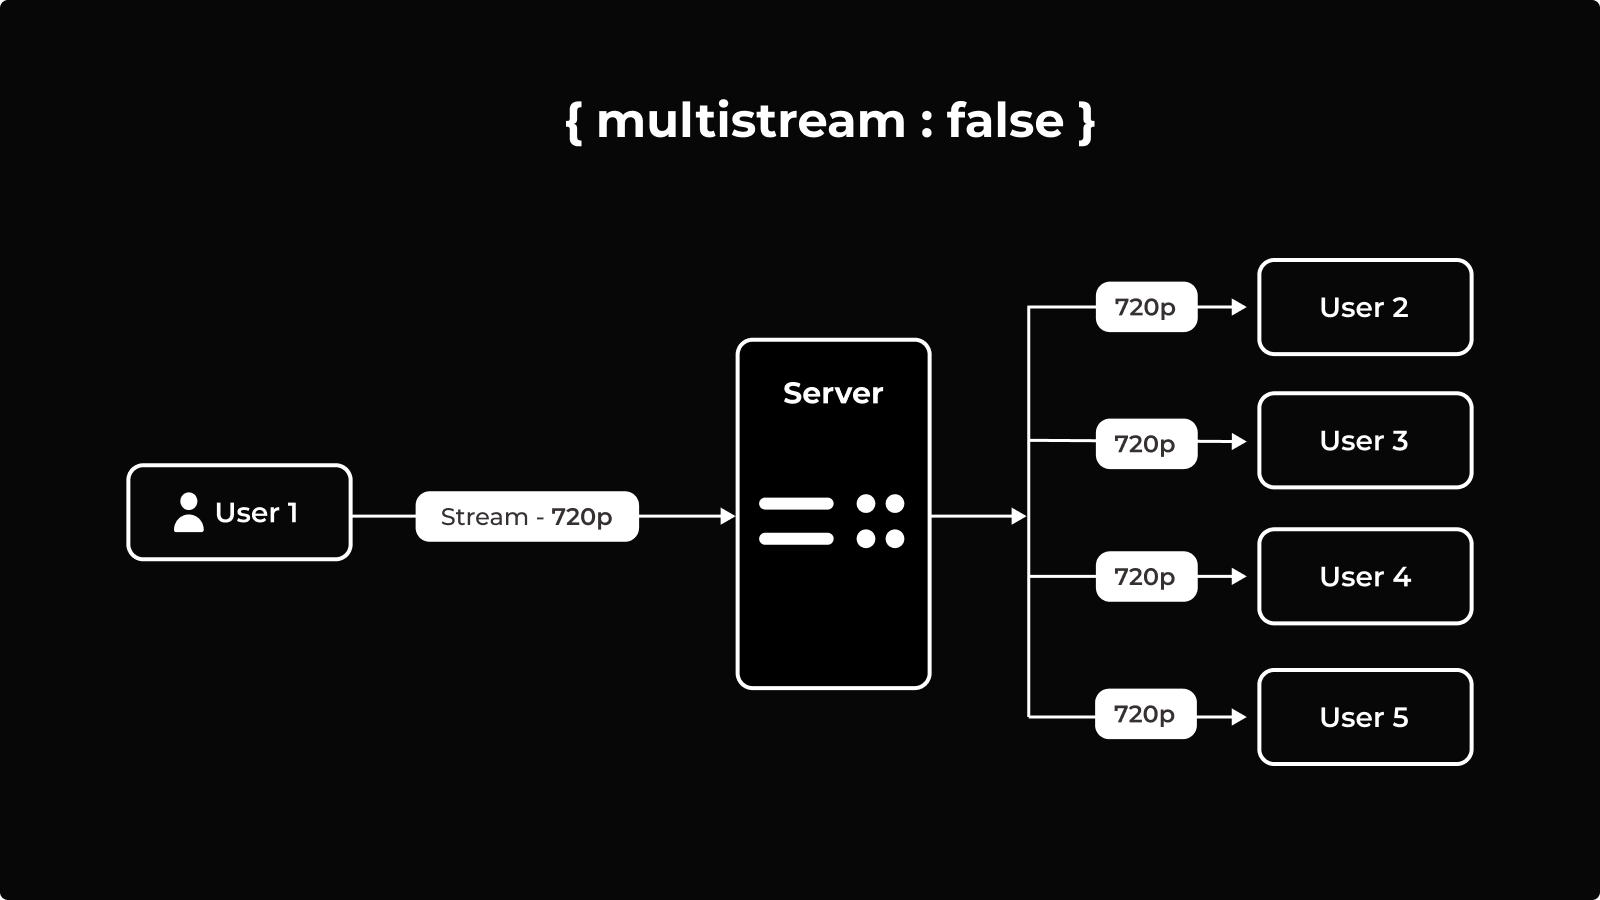
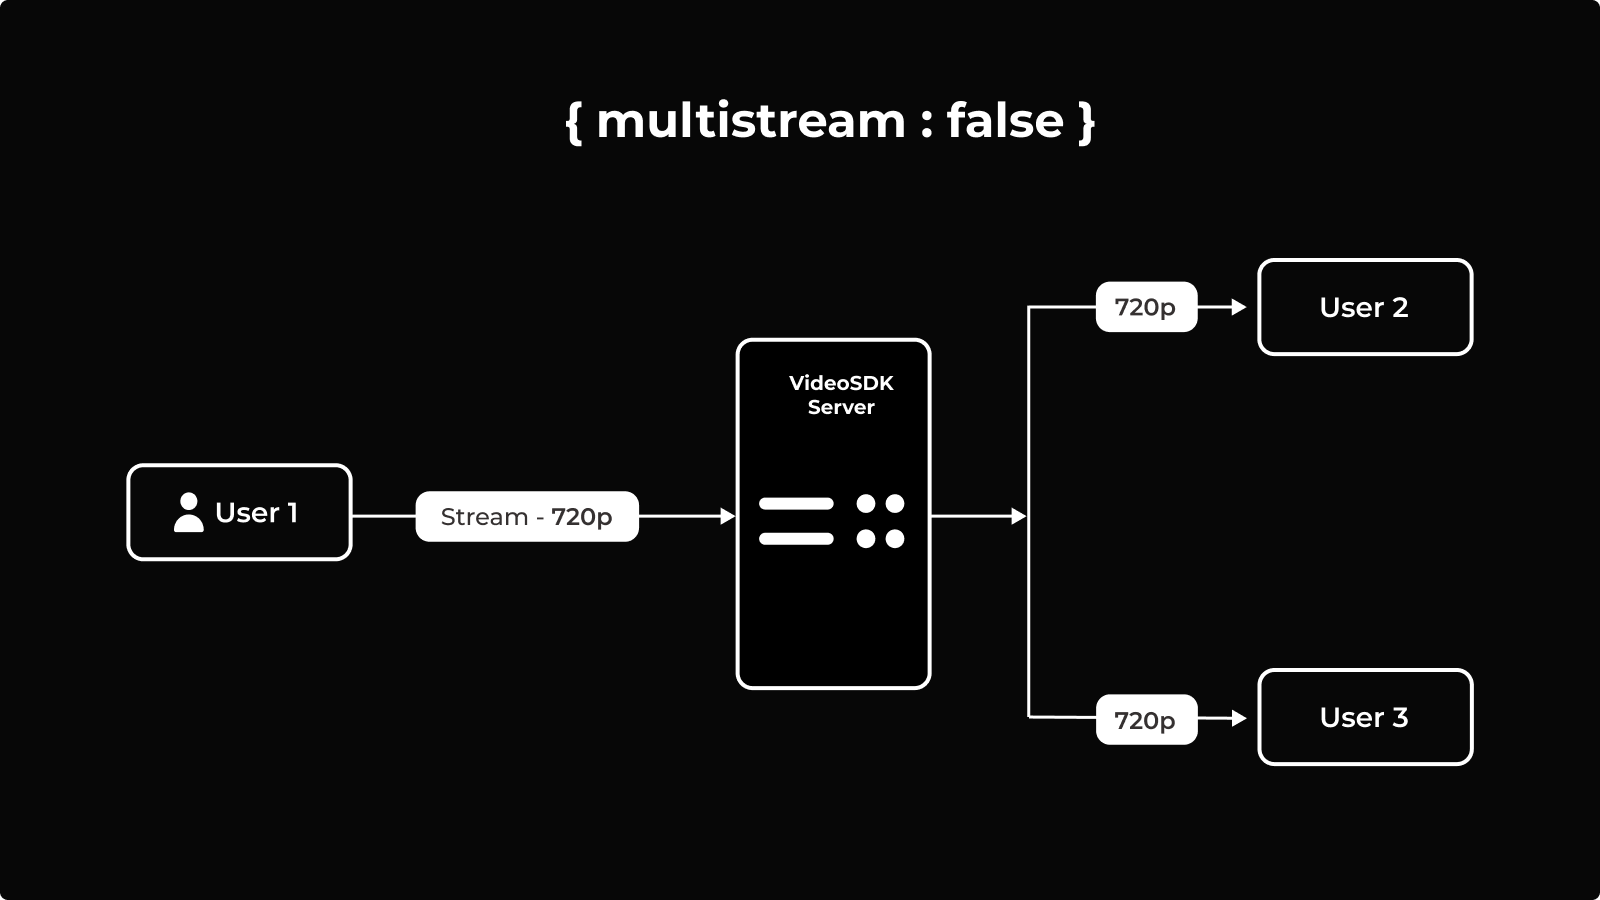
update in optimise audio video guide

diff --git a/react_docs_versioned_docs/version-0.1.x/guide/video-and-audio-calling-api-sdk/render-media/optimize-audio-video-tracks.md b/react_docs_versioned_docs/version-0.1.x/guide/video-and-audio-calling-api-sdk/render-media/optimize-audio-video-tracks.md
@@ -65,19 +65,25 @@ let customTrack = await createCameraVideoTrack({
 });
 ```
 
-##### What is `multiStream?`
+##### What is `multiStream`?
 
 - It will specifiy if the stream should send multiple resolution layers or single resolution layer.
 
-- By default, VideoSDK sends multiple resolution video streams to the server (whether you are using custom video track or not), For instance, user device capabilty is 720p, so VideoSDK sends 720p along with 640p and 480p streams. This allows VideoSDK to deliver the appropriate stream to each participant based on their network bandwidth.
+**`multiStream : true`** By default, VideoSDK sends multiple resolution video streams to the server (whether you are using custom video track or not), For instance, user device capabilty is 720p, so VideoSDK sends 720p along with 640p and 480p streams. This allows VideoSDK to deliver the appropriate stream to each participant based on their network bandwidth.
+
+<center>
+
+![Multi Stream False](/img/multistream_true.png)
+
+</center>
+
+**`multiStream : false`** If you want to restric the VideoSDK to to send only one stream to maintain quality, you can set `multiStream` to `false`.
 
 <center>
 
 ![Multi Stream False](/img/multistream_false.png)
 
 </center>
-
-- If you want to restric the VideoSDK to to send only one stream to maintain quality, you can set `multiStream` to `false`.
 
 :::caution
 The behavior of the Custom track would depend on the specific device and its capabilities. If the device's hardware and software can support a 1080p `encoderConfig`, then it may be able to use it, even if its maximum capabilities are 720p. However, if the device is not capable of supporting a 1080p `encoderConfig`, it may default to a lower resolution `encoderConfig`, such as 640p.
